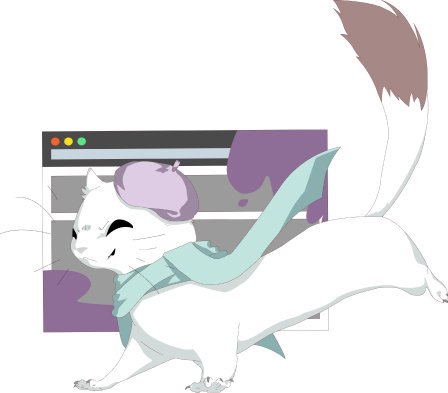
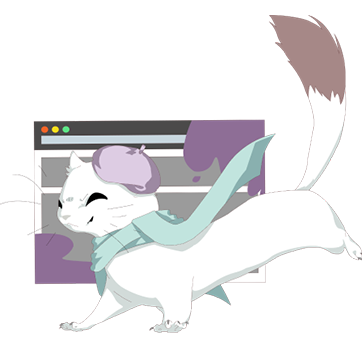
edit teams mascot img resolution

diff --git a/src/containers/Home/style.js b/src/containers/Home/style.js
@@ -2,7 +2,7 @@ import styled from 'styled-components';
 
 export const HomeContainer = styled.section`
   position: relative;
-  background-color: rgba(10, 10, 10, 0.8);
+  background-color: #1e1f21;
   height: 100%;
   width: 100%;
 `;
